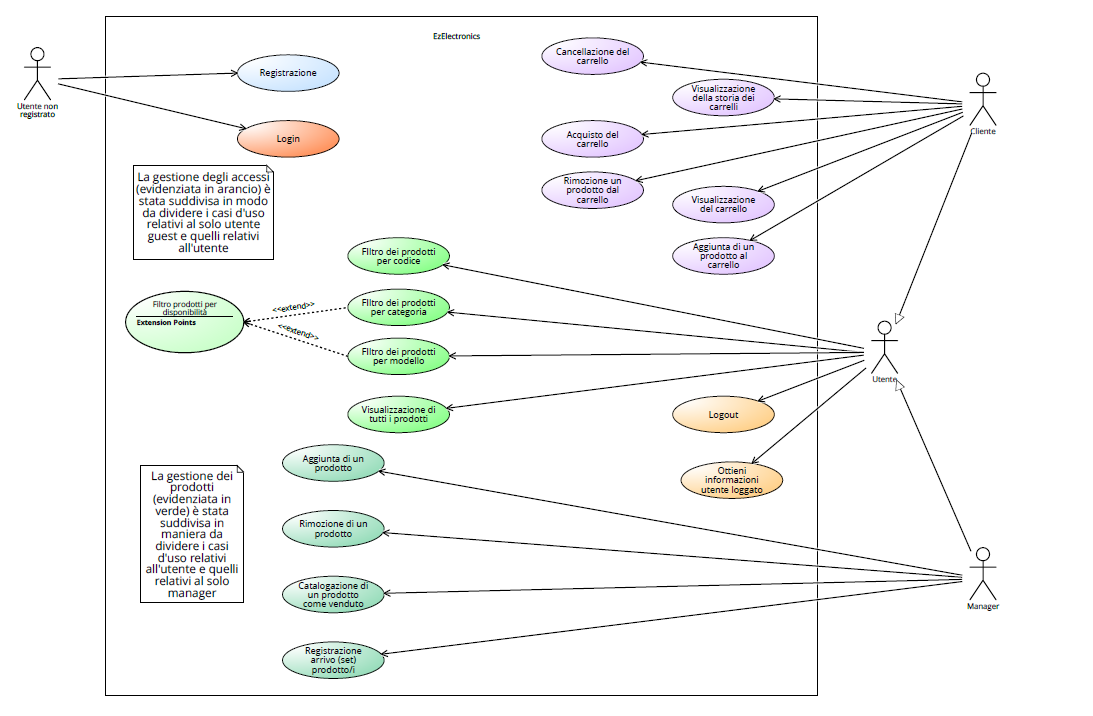
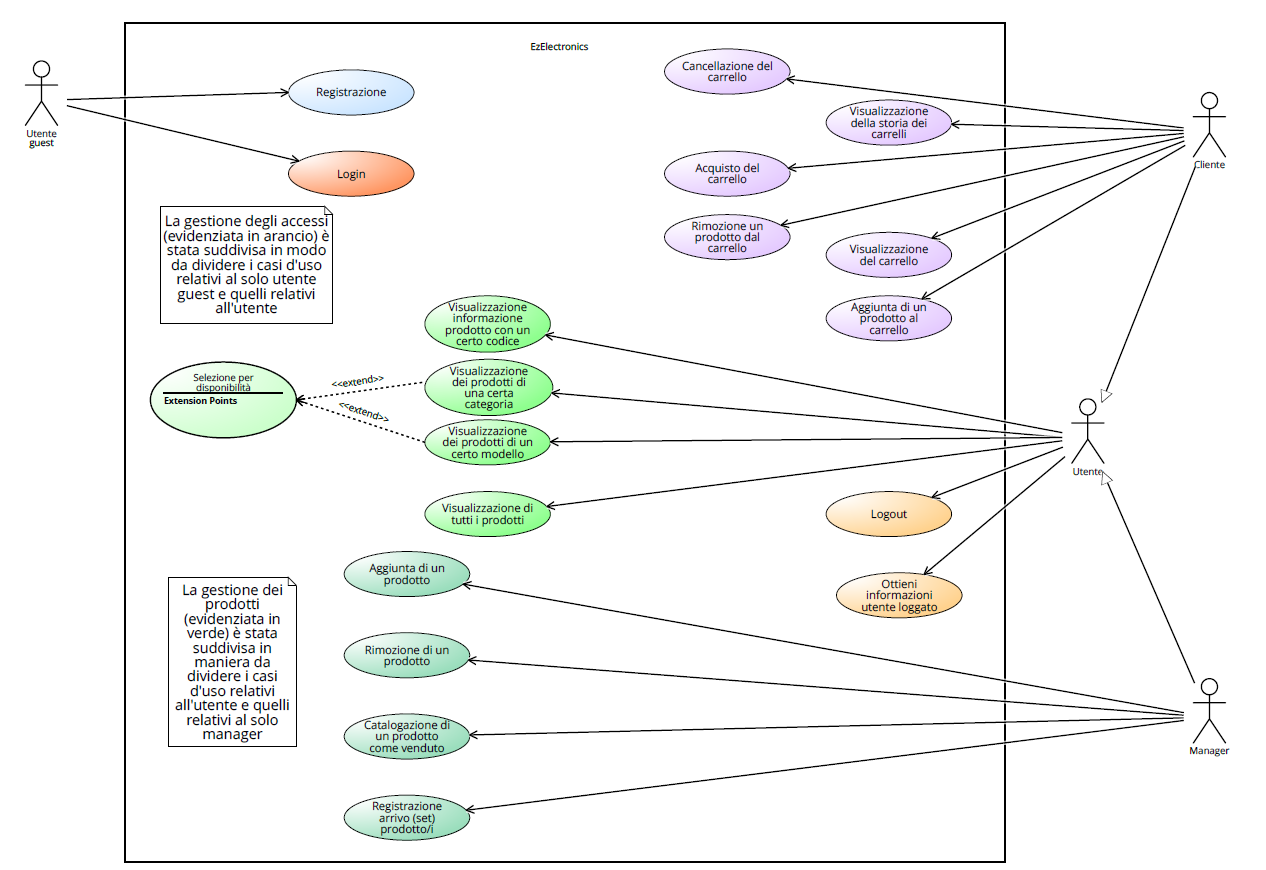
caricati diagrammi casi d'uso finali

diff --git a/RequirementsDocumentV2.md b/RequirementsDocumentV2.md
@@ -218,10 +218,10 @@ Storia: vuole regalare a suo figlio una console da gioco, <u>spedendola ad un in
 | NFR11| Portabilità  | Il sito web deve essere accessibile dai seguenti browser (specificando la versione più vecchia supportata): Chrome (v: 79), Firefox (v: 72), Safari (v: 13.0.5), Opera (v: 65), Edge (v: 79), Samsung Internet (v: 11.2) |/|
 
 # Use case diagram and use cases
-
+## Use Case Diagram Summary
+![useCaseDiagram](./img/diagrammaCasiDusoSummaryV2.png)
 ## Use case diagram
-
-![useCaseDiagram](/img/diagrammaDeiCasiD'uso.png)
+![useCaseDiagram](./img/diagrammaCasiDusoV2.png)
 
 ### Use case 1.1, UC1.1 Login
 

diff --git a/RequirementsDocumentV1.md b/RequirementsDocumentV1.md
@@ -193,7 +193,7 @@ Storia: deve <u>registrare l'arrivo</u> di una serie di prodotti e la loro quant
 ## Use case diagram Summary
 ![useCaseDiagram](./img/diagrammaCasiDusoSummaryv1.png)
 ## Use case diagram 
-![useCaseDiagram](./img/diagrammaCasiDusov1.png)
+![useCaseDiagram](./img/diagrammaCasiDusoV1.png)
 ### Use case 1.1, UC1.1
 
 | Actors Involved  |                                           Cliente/Manager                                        |
